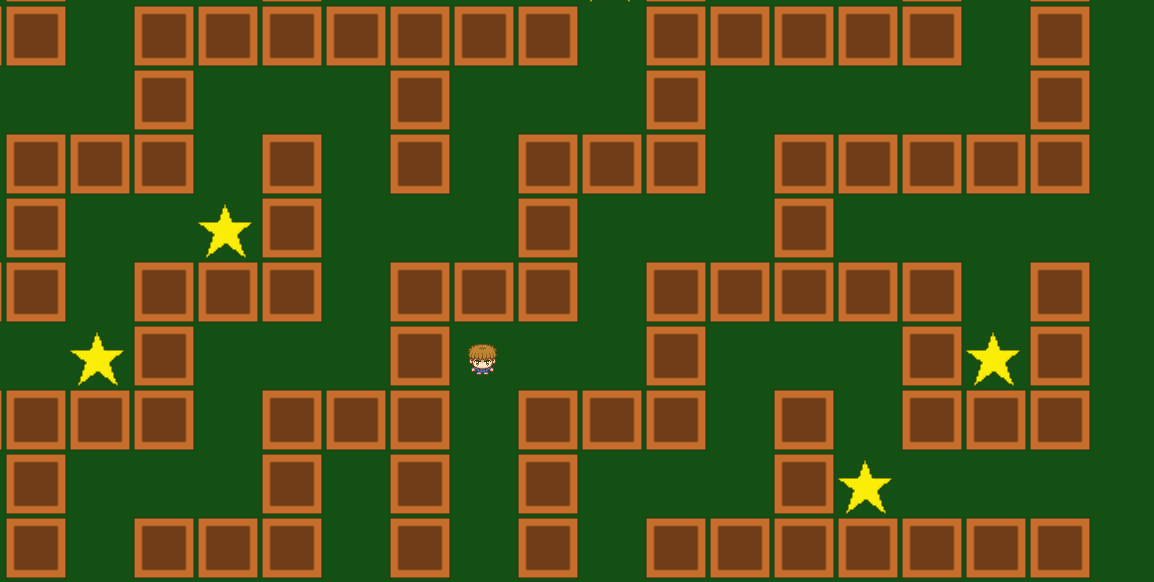
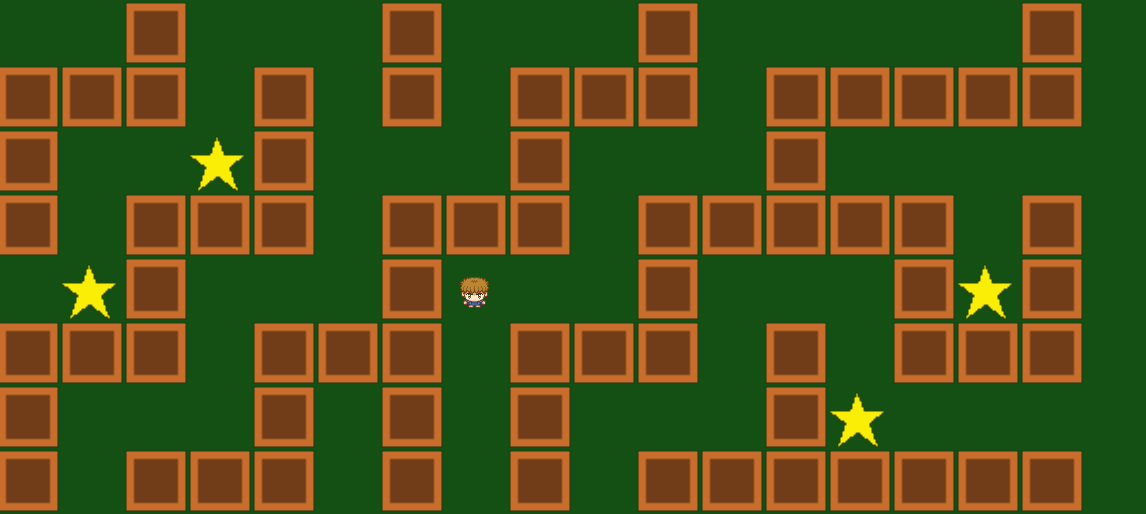
WIP more systemic updates

diff --git a/quest/game.py b/quest/game.py
@@ -7,10 +7,12 @@ from quest.errors import NoMapError, NoLayerError
 class QuestGame(arcade.Window):
     """Implements a top-down video game with a character on a map.
 
-    QuestGame is the central class in the Quest game framework, which is built
-    on top of the `arcade`. QuestGame is a subclass of arcade.Window.
-    The intended usage of QuestGame is to create a subclass for your game and 
-    then override whatever you need to change from the default behavior. 
+    :py:class:`QuestGame` is the central class in the :doc:`../index`, 
+    which is built on top of :doc:`arcade:index`. :py:class:`QuestGame` 
+    is a subclass of :py:class:`arcade:arcade.Window`.
+    The intended usage of :py:class:`QuestGame` is to create a subclass 
+    for your game and then override whatever you need to change from 
+    the default behavior. 
 
     Attributes:
         screen_width: Width in pixels of the game window.
@@ -88,8 +90,8 @@ class QuestGame(arcade.Window):
 
         self.maps should be a list of quest.map.Map objects, which get 
         initialized here. Each map represents a 'level' or 'scene' of the game.
-        Once the list of maps is created, use self.set_current_map() to 
-        set one of the maps as the initial 'current' map.
+        Once the list of maps is created, use :py:meth:`set_current_map` to 
+        set one of the maps as the initial current map.
         This method will probably need to be overridden. 
         """
         self.maps = []
@@ -107,7 +109,7 @@ class QuestGame(arcade.Window):
     def get_current_map(self):
         """Gets the current game map.
 
-        The current map is tracked using `current_map_index`
+        The current map is tracked using ``current_map_index``.
 
         Returns:
             The current Map.
@@ -119,8 +121,8 @@ class QuestGame(arcade.Window):
     def set_current_map(self, index):
         """Sets the current game map.
 
-        Checks to make sure `index` is valid, and then stores it as
-        `current_map_index`.
+        Checks to make sure ``index`` is valid, and then stores it as
+        ``current_map_index``.
         """
         if index < 0 or index >= len(self.maps):
             raise ValueError("Cannot set current map to {}; there are {} maps.".format(
@@ -129,8 +131,6 @@ class QuestGame(arcade.Window):
 
     def setup_non_playable_characters(self):
         """Does any neccessary setup for NPCs.
-        
-        If your game has non-playable characters, this method should set them up.
         """
         self.non_playable_character_list = arcade.SpriteList()
 
@@ -138,15 +138,18 @@ class QuestGame(arcade.Window):
         """Sets up the physics engine.
 
         Initializes the physics engine that will be used in the game. 
-        A physics engine resolves interactions between sprites according to a set of rules.
-        The Arcade library's PhysicsEngineSimple just keeps the player sprite from bumping 
-        into walls. More complicated physics engines could implement collisions, gravity, 
-        or even realistic 3-dimensional interactions. 
+        A physics engine resolves interactions between sprites according to a 
+        set of rules. The :doc:`arcade:index` :py:class:`arcade:PhysicsEngineSimple` 
+        just keeps the player sprite from bumping into walls. More complicated 
+        physics engines could implement collisions, gravity, or even realistic 
+        3-dimensional interactions. 
 
-        By default, QuestGame uses `arcade.PhysicsEngineSimple` to prevent the player sprite
-        from colliding or passing through any sprites on a map layer with the `wall` role.
-        Note: There should only be one `wall` map layer.
-        Don't override this method unless you understand Arcade's physics engines pretty well.
+        By default, :py:class:`QuestGame` uses :py:class:`arcade:PhysicsEngineSimple` 
+        to prevent the player sprite from colliding or passing through any 
+        sprites on a map layer with the ``wall`` role. If there are no 
+        :py:class:`MapLayer` with the ``wall`` role, uses the 
+        :py:class:`NullPhysicsEngine` instead. Don't override this method 
+        unless you understand Arcade's physics engines pretty well.
         """
         try:
             walls = self.get_current_map().get_single_layer_for_role("wall").sprite_list
@@ -201,11 +204,10 @@ class QuestGame(arcade.Window):
         pass
 
     def on_loot_collected(self, loot):
-        """Called when ever the player encounters a piece of loot.
+        """Called whenever the player encounters a piece of loot.
 
         Args:
             loot: A loot sprite which the player collided with.
-        
         """
         loot.kill()
 

diff --git a/quest/examples/maze.py b/quest/examples/maze.py
@@ -6,13 +6,11 @@ import arcade
 import random
 from datetime import datetime
 
-# TODO: Add a time, change to score reporting after completion
-
 class MazeMap(Map):
-    """A Map which creates a wall layer using a Maze.
+    """A Map which creates a wall layer using a :py:class`Maze`.
 
-    MazeMap is a subclass of Map which automatically generates a 
-    maze. It uses a `quest.maze.Maze` to figure out where to put walls, 
+    :py:class:`MazeMap` is a subclass of :py:class`Map` which automatically generates a 
+    maze. It uses a `Maze` to figure out where to put walls, 
     and adds wall sprites to a map layer in a corresponding pattern.
 
     Args:
@@ -36,15 +34,28 @@ class MazeMap(Map):
         self.generate_maze()
 
     def generate_maze(self, seed=None):
+        """Generates (or re-generates) the map. The :py:class`Maze` does most of the work.
+
+        Regenerates the maze, clears the wall map layer and the loot map layer (in case
+        there was a previous maze), and then populates these layers with new wall sprites
+        and loot sprites.
+        
+        Args:
+            seed: Random seed to pass to the maze (see :py:meth:`Maze.generate`)
+        """
         self.maze.generate(seed)
         wall_map_layer = self.get_single_layer_for_role("wall")
+        wall_map_layer.clear()
         for x, y in self.maze.get_walls():
             wall_map_layer.add_sprite(x, y)
         loot_map_layer = self.get_single_layer_for_role("loot")
+        loot_map_layer.clear()
         for x, y in random.sample(self.possible_loot_locations(), self.num_loot):
             loot_map_layer.add_sprite(x, y)
 
     def get_wall_map_layer(self):
+        """Creates a new :py:class:`GridMapLayer` to hold walls.
+        """
         return GridMapLayer(
             name="maze",
             columns=self.columns,
@@ -55,6 +66,8 @@ class MazeMap(Map):
         )
 
     def get_loot_map_layer(self):
+        """Creates a new :py:class:`GridMapLayer` to hold loot.
+        """
         return GridMapLayer(
             name="loot",
             columns=self.columns,
@@ -66,21 +79,20 @@ class MazeMap(Map):
         )
 
     def possible_loot_locations(self):
+        """Returns a list of points where loot could be placed. 
+        """
         X = range(1, self.columns, 2)
         Y = range(1, self.rows, 2)
         return list(product(X, Y))
 
-
 class MazeGame(QuestGame):
-    """A sample game in which a player explores a maze and looks for loot.
+    """Get all the stars as fast as you can! My record is 45 seconds.
 
-    MazeGame is an example of how you can make a fairly complex game without 
-    making too many changes to QuestGame. The main changes we need to make are 
-    how the 
-
-    Because MazeGame is a subclass of QuestGame, we just need to change the 
-    parts we want to work differently.
-        
+    :py:class:`MazeGame` is an example of how you can make a fairly complex 
+    game without making too many changes. Because :py:class:`MazeGame` is a 
+    subclass of :py:class:`QuestGame`, we just need to change the parts we 
+    want to work differently. We need to set some of the :py:class:`MazeGame` 
+    properties and override a few of the class methods. 
 
     Attributes:
         tile_size=32: Each square tile in the map is 32 pixels across.
@@ -114,7 +126,7 @@ class MazeGame(QuestGame):
         self.level_start = datetime.now()
 
     def setup_maps(self):
-        """Sets up the MazeMap and adds it to game's list of maps.
+        """Sets up the :py:class:`MazeMap` and adds it to game's list of maps.
         """
         super().setup_maps()
         maze_map = MazeMap(self.grid_columns, self.grid_rows, self.tile_size, self.max_score)
@@ -133,13 +145,13 @@ class MazeGame(QuestGame):
             self.final_elapsed_time = (datetime.now() - self.level_start).seconds
 
     def message(self):
-        """Returns a string showing the score and total loot, like "Score: 12/25."
+        """Returns a string like "Time 12 (12/25)"
         """
         if self.game_over:
             return "You won in {} seconds!".format(self.final_elapsed_time)
         else:
             elapsed_time = datetime.now() - self.level_start
-            return "Time: {}. Score: {}/{}".format(elapsed_time.seconds, self.score, self.max_score)
+            return "Time {} ({}/{})".format(elapsed_time.seconds, self.score, self.max_score)
 
 if __name__ == '__main__':
     game = MazeGame()

diff --git a/quest/helpers.py b/quest/helpers.py
@@ -7,7 +7,17 @@ def tileset_to_collection(image_path, tile_size, output_dir, name="tileset", cre
     """Splits a tileset image into separate files.
 
     Quest relies on Arcade, which only works with collections of images. 
-    A lot of game art
+    A lot of game art is provided as a single tile image. This function can help split
+    it out.
+
+    Args:
+        image_path: Path to an image containing a grid of tiles.
+        tile_size: Size in pixels of each tile.
+        output_dir: Directory for output files (there may be a lot of them).
+        name: Name of the tileset.
+        create_tsx: If True, also creates a tsx file which can be opened as a
+            :doc:`Tileset <tiled:manual/editing-tilesets>` using 
+            :doc:`Tiled <tiled:manual/introduction>`.
 
     """
     img = Image.open(image_path)
@@ -30,17 +40,6 @@ def tileset_to_collection(image_path, tile_size, output_dir, name="tileset", cre
             ET.ElementTree(tileset).write(f, encoding="UTF-8", xml_declaration=True)
 
 def empty_tileset(tile_size, cols, rows, name):
-    """Creates an empty tileset.
-
-    Args:
-        tile_size: Size of each tile, in pixels.
-        cols: Number of columns.
-        rows: Number of rows.
-        name: Tileset name.
-
-    Returns:
-        An xml document set up as a tileset.
-    """
     tileset = ET.Element("tileset")
     tileset.set('version', "1.2")
     tileset.set('tiledversion',"1.3.1")
@@ -56,19 +55,9 @@ def empty_tileset(tile_size, cols, rows, name):
     return tileset
 
 def add_tile(tileset, tile_id, img_path):
-    """Adds a tile to the tileset.
-
-    Args:
-        tileset: An xml document, like the return value of `empty_tileset`.
-        tile_id: A unique number.
-        img_path: Path to the image, relative to where this tileset will be saved.
-    """
     tile_element = ET.SubElement(tileset, 'tile')
     tile_element.set('id', str(tile_id) )
     img_element = ET.SubElement(tile_element, 'image')
     img_element.set('width', tileset.get('tilewidth'))
     img_element.set('height', tileset.get('tileheight'))
     img_element.set('source', img_path)
-
-if __name__ == '__main__':
-    tileset_to_collection("examples/images/wood_tileset.png", 32, "examples/images/wood_tileset")

diff --git a/quest/map.py b/quest/map.py
@@ -14,7 +14,7 @@ class Map:
 
     Attributes:
         background_color: a 3-tuple of integers for red, green, blue. Each from 0-255.
-            The `arcade.color` module also predefines many colors.
+            The :py:module:`arcade:color` module also predefines many colors.
         tile_scaling: Factor by which to scale all map tiles. Default is 1.
     """
     background_color = (RED, GREEN, BLUE)
@@ -115,6 +115,12 @@ class MapLayer:
 
     def draw(self):
         self.sprite_list.draw()
+
+    def clear(self):
+        """Delete all this layer's sprites.
+        """
+        while len(self.sprite_list) > 0:
+            self.sprite_list.pop()
 
 class GridMapLayer(MapLayer):
     """

diff --git a/documentation/conf.py b/documentation/conf.py
@@ -47,7 +47,8 @@ templates_path = ['_templates']
 exclude_patterns = ['_build', 'Thumbs.db', '.DS_Store']
 
 intersphinx_mapping = {
-    'arcade': ('https://arcade.academy/', None)
+    'arcade': ('https://arcade.academy/', None),
+    'tiled': ('https://doc.mapeditor.org/en/stable/', None),
 }
 
 

diff --git a/documentation/pedagogy/index.rst b/documentation/pedagogy/index.rst
@@ -33,14 +33,14 @@ Possible Activities
 - Have students implement subclasses using method hooks
 - Observe default behavior of existing framework and tracing the codebase to find where 
 - Make trivial changes via subclassing. Each can be achieved by adding a single property.
-	- change the player sprite filename
-	- scale the player sprite to be larger or smaller. 
-	- change the player speed
+  - change the player sprite filename
+  - scale the player sprite to be larger or smaller. 
+  - change the player speed
 - Make small changes by overriding methods (with low task complexity)
-	- change the input keys 
-	- add a "run" mode: the character goes faster while spacebar is pressed
-    - load a different map (eg load a Maze map but change the number of stars)
+  - change the input keys 
+  - add a "run" mode: the character goes faster while spacebar is pressed
+  - load a different map (eg load a Maze map but change the number of stars)
 - Plan possible implementation strategies
-	- Give students a list of possible game mechanics (eg an enemy chases you; add an inventory; moving between maps; a way to win the game; a key unlocks a door) and have them write a plan of what could be overridden/extended to make it happen. 
+  - Give students a list of possible game mechanics (eg an enemy chases you; add an inventory; moving between maps; a way to win the game; a key unlocks a door) and have them write a plan of what could be overridden/extended to make it happen. 
 - As groups start developing games, brainstorm needed features as a class, and collaborate on implementing them. (This will reward good design, as we want an inventory system or an enemy behavior system that can work for everyone.)
 

diff --git a/documentation/index.rst b/documentation/index.rst
@@ -3,6 +3,7 @@
    You can adapt this file completely to your liking, but it should at least
    contain the root `toctree` directive.
 
+
 Quest Game Framework
 ====================
 
@@ -10,8 +11,9 @@ Quest Game Framework
    :maxdepth: 2
    :caption: Contents:
 
+   tutorial/index
    narrative/index
    examples/index
-   api/modules
+   api/index
    pedagogy/index
 

diff --git a/documentation/api/index.rst b/documentation/api/index.rst
@@ -1,0 +1,14 @@
+Reference
+=========
+
+This section of the documentation explains each class and function in the Quest Game framework.
+
+.. toctree::
+   :maxdepth: 4
+
+   game
+   map
+   sprites
+   engines
+   maze
+   helpers

diff --git a/documentation/narrative/maps.rst b/documentation/narrative/maps.rst
@@ -1,0 +1,9 @@
+Maps
+====
+
+- Game map with multiple layers
+- Layer with roles. 
+- Role of roles. 
+- Using :doc:`Tiled <tiled:manual/introduction>`
+
+Note: There should only be one ``wall`` map layer.

diff --git a/documentation/tutorial/index.rst b/documentation/tutorial/index.rst
@@ -1,0 +1,8 @@
+Getting started
+===============
+
+- Installation
+- Run the examples
+- Change the examples
+- Make a plan
+- Read the code

diff --git a/documentation/examples/island.rst b/documentation/examples/island.rst
@@ -1,5 +1,7 @@
 Island
 ======
 
+.. image:: ../images/island_game.png
+
 .. automodule:: quest.examples.island
    :members:

diff --git a/documentation/api/helpers.rst b/documentation/api/helpers.rst
@@ -1,0 +1,6 @@
+Helpers
+=======
+
+.. automodule:: quest.helpers
+   :members:
+
